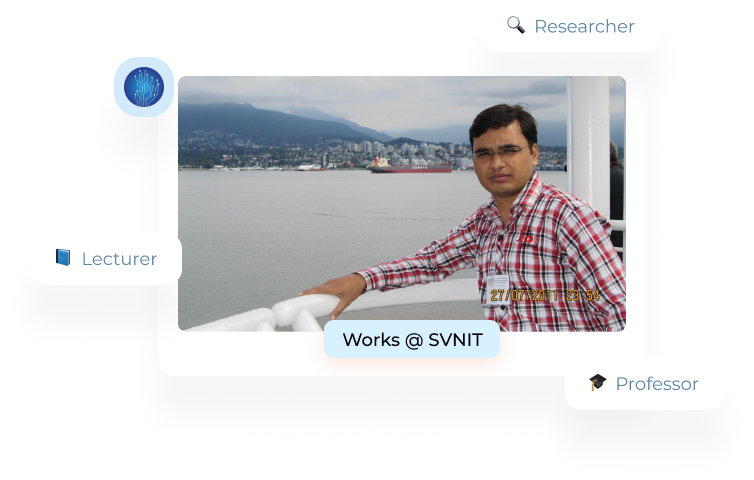
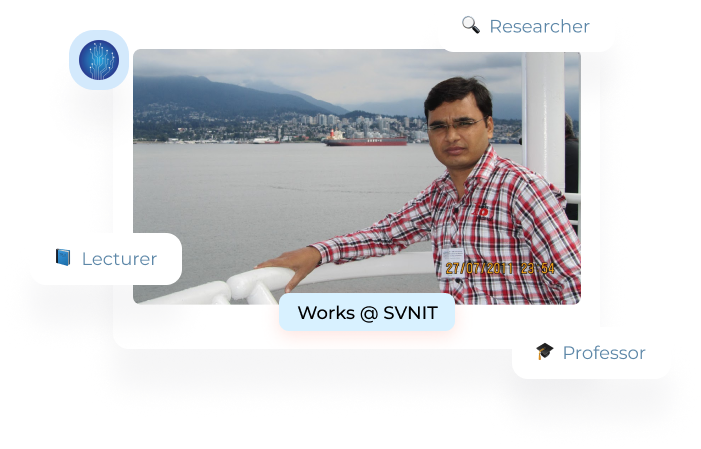
Mobile

Changed region(s): [[0.0599, 0.0312, 0.8388, 0.7483], [0.7489, 0.7483, 0.9287, 0.8107]]

diff --git a/components/Sections.tsx b/components/Sections.tsx
@@ -11,8 +11,8 @@ export default function Sections() {
   return (
     <div>
       <section className="h-[calc(100dvh)] w-full">
-        <div className="flex flex-col md:flex-row h-full pb-24 items-center justify-center w-full">
-          <div className="md:w-2/5 ">
+        <div className="flex flex-col md:flex-row h-full items-center justify-center w-full">
+          <div className="md:w-2/5 h-1/2">
             <Image
               src="/hero.png"
               alt="hero"
@@ -21,7 +21,7 @@ export default function Sections() {
               objectFit="cover"
             />
           </div>
-          <div className="md:w-2/5 ml-4">
+          <div className="md:w-2/5 md:ml-4">
             <h1
               className={`${monstserret.style} text-3xl md:text-5xl font-bold
                 text-center md:text-left
@@ -37,7 +37,9 @@ export default function Sections() {
               Assistant Professor | Electronics Engineering
             </h1>
             <p
-              className="text-sm font-light md:text-base text-muted-foreground pt-4 text-center md:text-left"
+              className="text-sm font-light md:text-base text-muted-foreground pt-4 text-center md:text-left
+              px-8 md:px-0
+              "
               style={{ lineHeight: "1.8" }}
             >
               I am an academic with a Ph.D. in Electronics and Communication,
